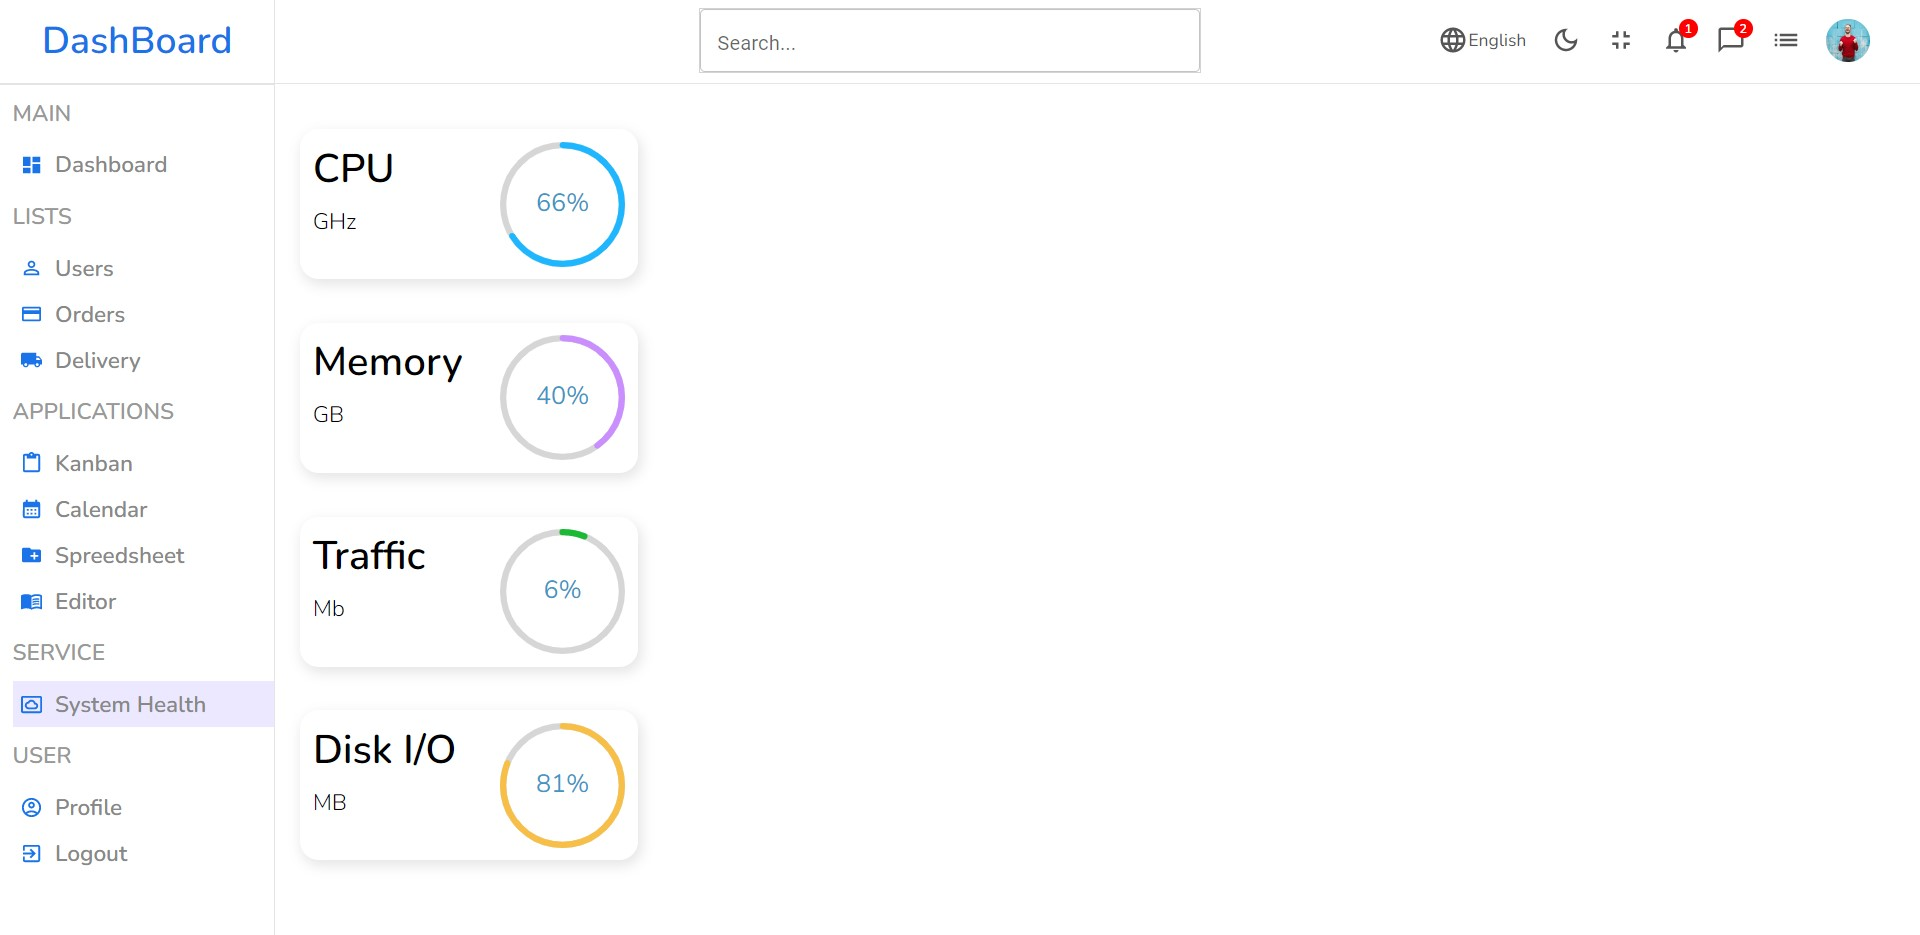
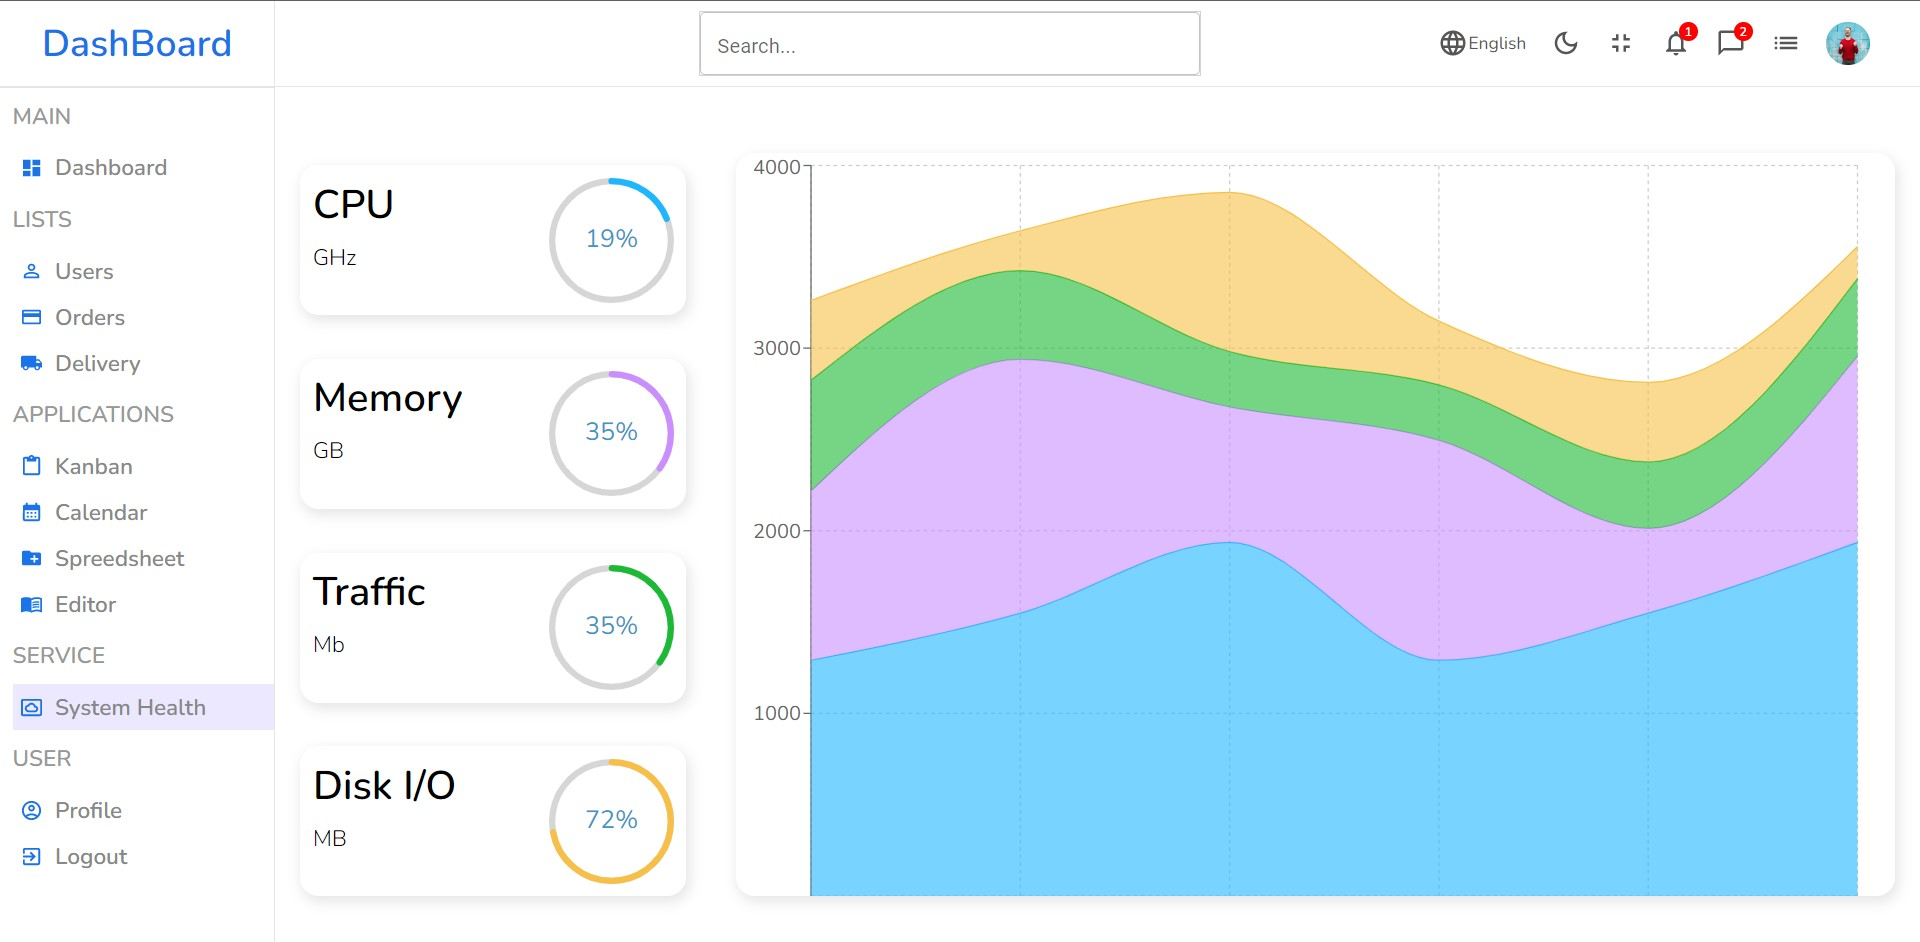
added system health section and Loader

diff --git a/src/components/chart/MonitorChart.jsx b/src/components/chart/MonitorChart.jsx
@@ -1,0 +1,55 @@
+import { useEffect } from 'react';
+import { useState } from 'react';
+import { AreaChart, Area, XAxis, YAxis, CartesianGrid, Tooltip, ResponsiveContainer } from 'recharts';
+import './chart.css'
+
+function MonitorChart() {
+
+    const [data, setData] = useState([{
+        cpu: 4000,
+        mem: 2400,
+        net: 2400,
+        disk: 2000
+    },]);
+
+    useEffect(() => {
+        setInterval(() => {
+            let a = Math.floor(Math.random() * (1500 - 1000 + 1) + 1000)
+            let b = Math.floor(Math.random() * (1000 - 800 + 1) + 800)
+            let c = Math.floor(Math.random() * (800 - 500 + 1) + 500)
+            let d = Math.floor(Math.random() * (500 - 300 + 1) + 300)
+
+            setData([{ cpu: a, mem: b, net: c, disk: d }, { cpu: 1.2 * a, mem: 1.5 * b, net: 0.8 * c, disk: 0.5 * d },
+            { cpu: 1.5 * a, mem: 0.8 * b, net: 0.5 * c, disk: 2 * d }, { cpu: a, mem: 1.3 * b, net: 0.5 * c, disk: 0.8 * d },
+            { cpu: 1.2 * a, mem: 0.5 * b, net: 0.6 * c, disk: d }, { cpu: 1.5 * a, mem: 1.1 * b, net: 0.7 * c, disk: 0.4 * d }])
+        }, 4000)
+    }, [])
+
+    return (
+        <div className="area-chart">
+            <ResponsiveContainer width="100%" height="100%">
+                <AreaChart
+                    width={500}
+                    height={400}
+                    data={data}
+                    margin={{
+                        top: 10,
+                        right: 30,
+                        left: 0,
+                        bottom: 0,
+                    }}
+                >
+                    <CartesianGrid strokeDasharray="3 3" />
+                    <YAxis />
+                    <Tooltip />
+                    <Area type="monotone" dataKey="cpu" stackId="1" stroke="rgb(30, 183, 255)" fill="rgb(30, 183, 255)" />
+                    <Area type="monotone" dataKey="mem" stackId="1" stroke="rgb(202, 142, 255)" fill="rgb(202, 142, 255)" />
+                    <Area type="monotone" dataKey="net" stackId="1" stroke="rgb(27, 185, 52)" fill="rgb(27, 185, 52)" />
+                    <Area type="monotone" dataKey="disk" stackId="1" stroke="rgb(247, 191, 71)" fill="rgb(247, 191, 71)" />
+                </AreaChart>
+            </ResponsiveContainer>
+        </div>
+    )
+}
+
+export default MonitorChart

diff --git a/src/pages/health/Health.jsx b/src/pages/health/Health.jsx
@@ -1,7 +1,7 @@
 import Navbar from '../../components/navbar/Navbar'
 import Sidebar from '../../components/sidebar/Sidebar'
 import Monitor from '../../components/monitor/Monitor'
-
+import MonitorChart from '../../components/chart/MonitorChart'
 import './health.css'
 
 function Health(props) {
@@ -10,27 +10,32 @@ function Health(props) {
       <Sidebar />
       <div className="health-container">
         <Navbar handle={props.handle} />
-        <div className="health-progress">
-          <Monitor
-            title="CPU"
-            unit="GHz"
-            color='rgb(30, 183, 255)'
-          />
-          <Monitor
-            title="Memory"
-            unit="GB"
-            color='rgb(202, 142, 255)'
-          />
-          <Monitor
-            title="Traffic"
-            unit="Mb"
-            color='rgb(27, 185, 52)'
-          />
-          <Monitor
-            title="Disk I/O"
-            unit="MB"
-            color='rgb(247, 191, 71)'
-          />
+        <div className="health-column">
+          <div className="health-progress">
+            <Monitor
+              title="CPU"
+              unit="GHz"
+              color='rgb(30, 183, 255)'
+            />
+            <Monitor
+              title="Memory"
+              unit="GB"
+              color='rgb(202, 142, 255)'
+            />
+            <Monitor
+              title="Traffic"
+              unit="Mb"
+              color='rgb(27, 185, 52)'
+            />
+            <Monitor
+              title="Disk I/O"
+              unit="MB"
+              color='rgb(247, 191, 71)'
+            />
+          </div>
+          <div className="health-chart">
+            <MonitorChart />
+          </div>
         </div>
       </div>
     </div>

diff --git a/public/index.html b/public/index.html
@@ -6,24 +6,26 @@
   <meta name="viewport" content="width=device-width, initial-scale=1" />
   <link rel="preconnect" href="https://fonts.googleapis.com">
   <link rel="preconnect" href="https://fonts.gstatic.com" crossorigin>
-  <link
-    href="https://fonts.googleapis.com/css2?family=Nunito:ital,wght@0,200;0,300;0,400;0,500;0,600;1,200;1,300;1,400;1,500&display=swap"
-    rel="stylesheet">
-  <style>
-    * {
-      font-family: 'Nunito', sans-serif;
-      margin: 0;
-    }
-  </style>
   <link rel="apple-touch-icon" sizes="180x180" href="/apple-touch-icon.png">
   <link rel="icon" type="image/png" sizes="32x32" href="/favicon-32x32.png">
   <link rel="icon" type="image/png" sizes="16x16" href="/favicon-16x16.png">
+  <link rel="stylesheet" href="./style.css">
+  <link
+    href="https://fonts.googleapis.com/css2?family=Nunito:ital,wght@0,200;0,300;0,400;0,500;0,600;1,200;1,300;1,400;1,500&display=swap"
+    rel="stylesheet">
   <title>DashBoard</title>
 </head>
 
 <body>
-  <noscript>You need to enable JavaScript to run this app.</noscript>
+  <div id="preloader"></div>
   <div id="root"></div>
+
+  <script>
+    var loader = document.getElementById("preloader");
+    window.addEventListener("load", function () {
+      loader.style.display = "none";
+    })
+  </script>
 </body>
 
 </html>

diff --git a/src/pages/health/health.css b/src/pages/health/health.css
@@ -7,10 +7,24 @@
     flex: 6;
 }
 
-.health-progress{
-    display: inline-flex;
+.health-column {
+    display: flex;
+    flex-direction: row;
+    margin-top: 1%;
+    padding-top: 3%;
+}
+
+.health-progress {
+    display: flex;
+    flex: 1;
     flex-direction: column;
     padding: 10px 20px 0 20px !important;
     gap: 35px;
-    margin-top: 2%;
+}
+
+.health-chart {
+    display: flex;
+    flex: 3;
+    flex-direction: column;
+    padding: 0 20px;
 }

diff --git a/src/components/chart/chart.css b/src/components/chart/chart.css
@@ -53,15 +53,15 @@
     height: 35vh;
 }
 
-.sparkline {
+.area-chart {
     display: flex;
     justify-content: space-between;
-    flex: 1;
-    flex-direction: row;
+    flex: 2;
+    flex-direction: column;
     -webkit-box-shadow: 2px 4px 10px 1px rgba(0, 0, 0, 0.47);
     box-shadow: 2px 4px 10px 1px rgba(201, 201, 201, 0.47);
     border-radius: 15px;
-    height: 43vh;
+    height: 65vh;
 }
 
 .chart-top {

diff --git a/public/style.css b/public/style.css
@@ -1,0 +1,12 @@
+* {
+    font-family: 'Nunito', sans-serif;
+    margin: 0;
+}
+
+#preloader {
+    background: #fff url("/loader.gif") no-repeat center;
+    height: 100vh;
+    width: 100%;
+    position: fixed;
+    z-index: 100;
+}
